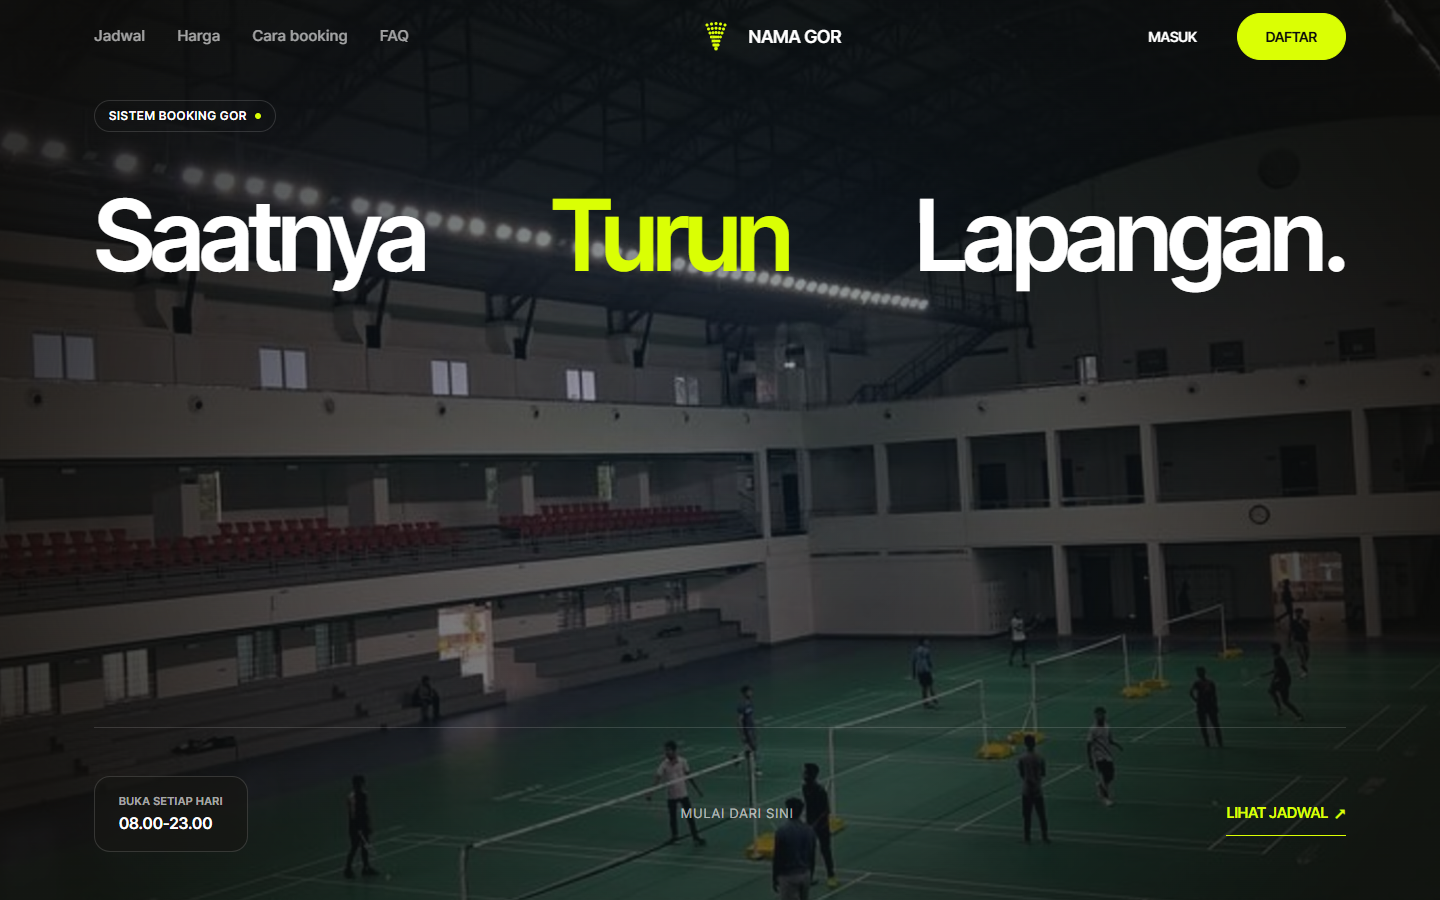
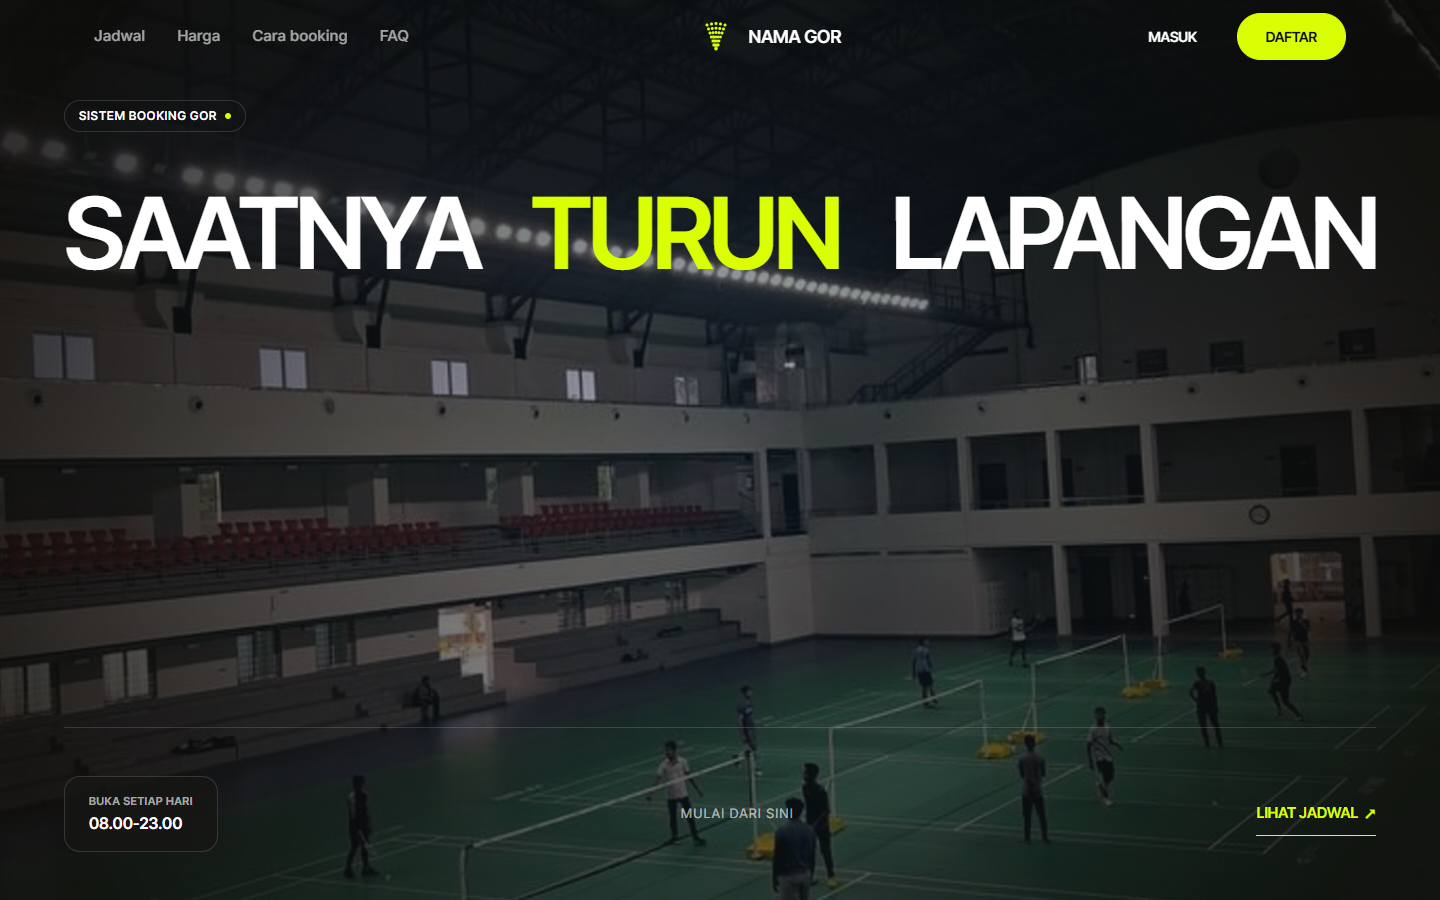
style: besarkan judul hero menjadi kapital raksasa seperti 'PILIH SLOT MAINMU'

diff --git a/resources/css/components.css b/resources/css/components.css
@@ -657,6 +657,10 @@ details[open] .faq-icon {
     pointer-events: none;
 }
 
+.hero-section .kontainer {
+    max-width: 1540px;
+}
+
 .hero-content {
     position: relative;
     z-index: 2;
@@ -668,9 +672,10 @@ details[open] .faq-icon {
 
 .hero-judul {
     font-family: var(--font-judul);
-    font-size: clamp(2rem, 7vw, 6.2rem);
+    font-size: clamp(2.6rem, 6.9vw, 6.8rem);
     font-weight: 600;
-    line-height: 0.95;
+    text-transform: uppercase;
+    line-height: 0.92;
     letter-spacing: var(--tracking-judul);
     display: flex;
     justify-content: space-between;
@@ -777,7 +782,9 @@ details[open] .faq-icon {
     .hero-judul {
         flex-direction: column;
         align-items: flex-start;
-        gap: var(--spasi-1);
+        gap: 0;
+        font-size: clamp(3.2rem, 14vw, 5rem);
+        line-height: 0.9;
         margin-top: var(--spasi-2);
         margin-bottom: var(--spasi-2);
     }

diff --git a/tests/Feature/LandingPageTest.php b/tests/Feature/LandingPageTest.php
@@ -25,7 +25,7 @@ class LandingPageTest extends TestCase
         $response->assertStatus(200);
         $response->assertSee('Saatnya');
         $response->assertSee('Turun');
-        $response->assertSee('Lapangan.');
+        $response->assertSee('Lapangan');
     }
 
     /**

diff --git a/resources/views/landing.blade.php b/resources/views/landing.blade.php
@@ -19,7 +19,7 @@
             <h1 class="hero-judul">
                 <span>Saatnya</span>
                 <span class="teks-lime">Turun</span>
-                <span>Lapangan.</span>
+                <span>Lapangan</span>
             </h1>
         </div>
 
